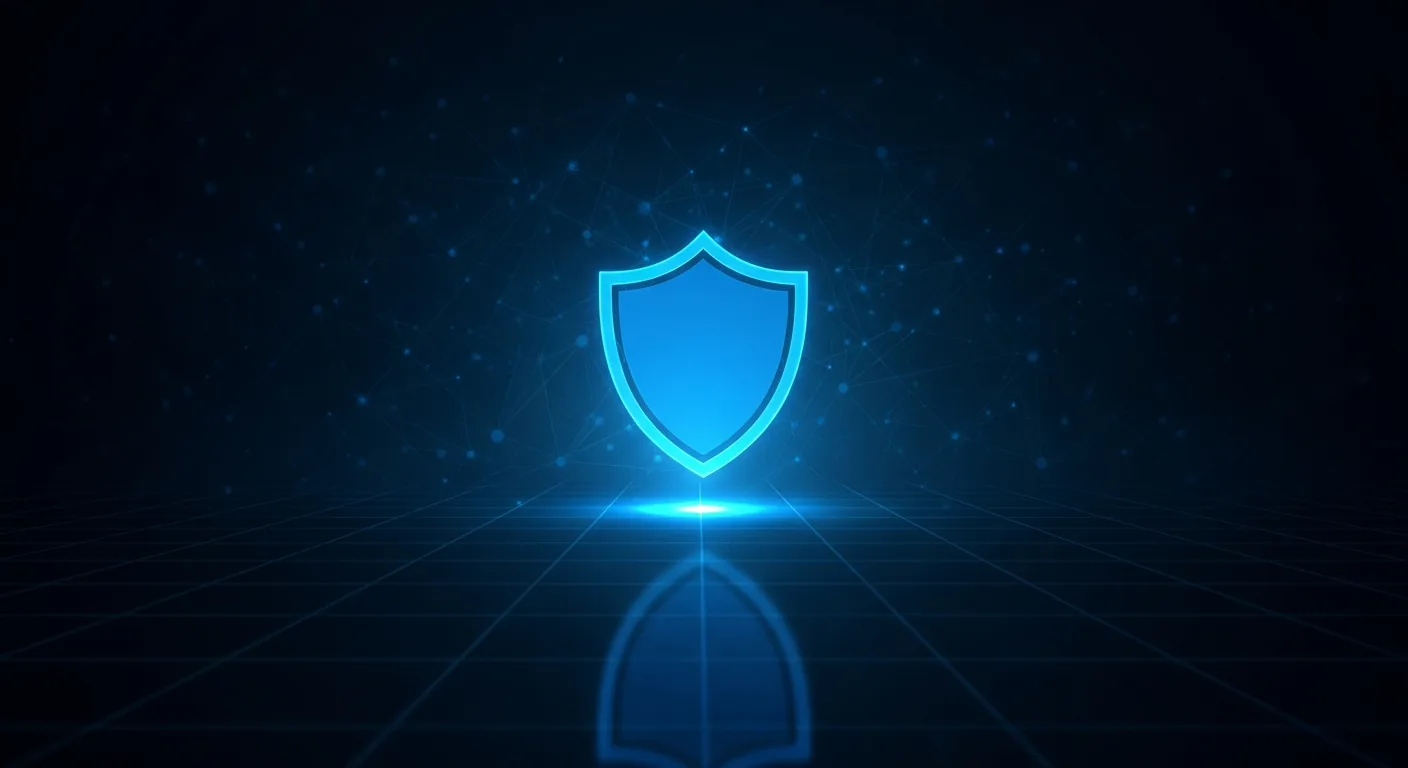
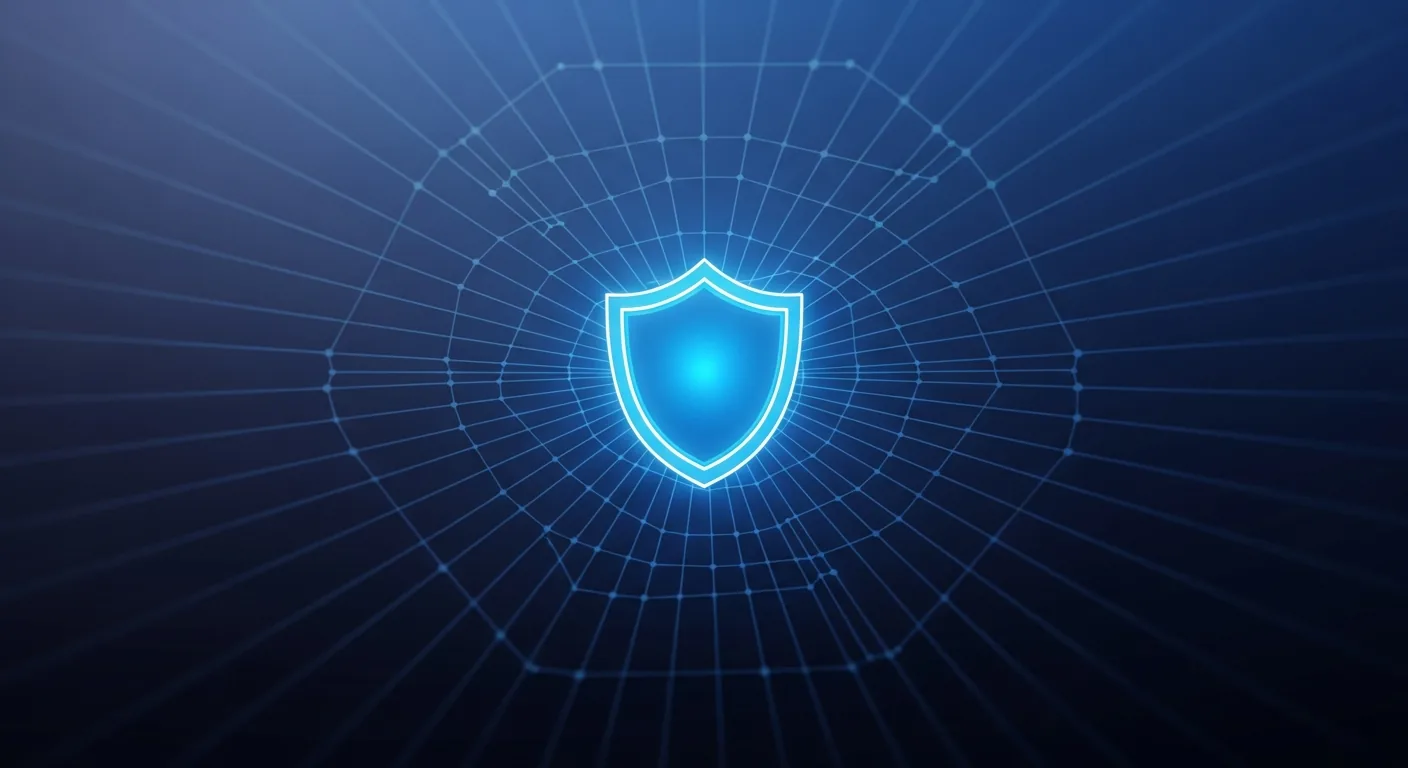
Complete AI image library — 38 new images for guides, countries, and OG
Generated via kie.ai Imagen4 Fast and converted to WebP:
- 12 thematic guide images (covers all 75 guides via slug→topic mapping)
- 20 country hero images (top countries by traffic potential)
- 6 social/OG share backgrounds (security, vpn, countries, default, travel, guides)

Code changes:
- ArticleLayout: re-enable full topic-image map (15 patterns)
- CountryBestVpnLayout: add hero image at top of page for the 20 countries
- .gitignore: exclude raw .png sources, only ship .webp to git

Total image weight: 4.7 MB across 49 WebP files (was 68.5 MB as PNG).

diff --git a/src/components/layouts/ArticleLayout.tsx b/src/components/layouts/ArticleLayout.tsx
@@ -23,17 +23,22 @@ const heroImageByCategory: Record<string, { src: string; alt: string }> = {
 
 // Topic-cluster image mapping — keyword fragments matched against slug+title
 // Returns the most specific match. Order matters (most specific first).
-// Only includes images that actually exist on disk.
 const TOPIC_IMAGES: Array<[RegExp, string, string]> = [
+  [/crypto/, "/images/illustrations/guide-crypto.webp", "Cryptocurrency security and hardware wallets"],
+  [/gaming|gamer/, "/images/illustrations/guide-gaming.webp", "VPN for gaming setup"],
+  [/coworking|co-working/, "/images/illustrations/guide-coworking.webp", "Coworking and shared office security"],
+  [/api[- ]?key|developer|cloud-development|endpoint|byod|note-taking/, "/images/illustrations/guide-developer.webp", "Developer security and API keys"],
   [/messaging|video[- ]?call|screen[- ]?sharing|collaboration|remote[- ]?desktop|email/, "/images/illustrations/guide-comms.webp", "Secure video calls and messaging"],
   [/browser|privacy|social-media|browsing|minimalism|estate|job-search|laws/, "/images/illustrations/guide-privacy.webp", "Browser privacy and online tracking"],
-  [/backup|cloud-storage|breach|file-sharing|encryption|api[- ]?key|developer/, "/images/illustrations/guide-data.webp", "Cloud data and backup security"],
+  [/backup|cloud-storage|breach|file-sharing|encryption/, "/images/illustrations/guide-data.webp", "Cloud data and backup security"],
   [/wifi|router|home-network|dns|iot/, "/images/illustrations/guide-router.webp", "Home network router security"],
   [/password|2fa|two-factor|sim-swap|auth/, "/images/illustrations/guide-passwords.webp", "Password manager and 2FA"],
+  [/finance|accountant|lawyer|healthcare|teacher|real-estate|senior|small-business|freelance|expat|journalist|student/, "/images/illustrations/guide-professional.webp", "Professional VPN for finance and business"],
+  [/multi-device|tablet|chromebook|nas|android|ios|mac|windows|linux/, "/images/illustrations/guide-multi-device.webp", "Multi-device VPN security"],
+  [/zero[- ]?trust|enterprise/, "/images/illustrations/guide-enterprise.webp", "Enterprise VPN and zero trust"],
   [/digital[- ]?nomad|nomad/, "/images/illustrations/guide-digital-nomad.webp", "Digital nomad working remotely"],
   [/hotel|airport|travel/, "/images/illustrations/guide-hotel-wifi.webp", "Working from hotel with VPN"],
   [/setup|beginner|mobile/, "/images/illustrations/guide-mobile-vpn.webp", "VPN connected on smartphone"],
-  [/security[- ]?tools|tools/, "/images/illustrations/guide-security-tools.webp", "Security tools flatlay"],
 ];
 
 function pickHero(slug: string | undefined, category: string, title: string): { src: string; alt: string } {

diff --git a/src/components/layouts/CountryBestVpnLayout.tsx b/src/components/layouts/CountryBestVpnLayout.tsx
@@ -11,6 +11,14 @@ import CountryPageTracker from "@/components/ui/CountryPageTracker";
 import NearbyCountries from "@/components/ui/NearbyCountries";
 import { getAllCountries } from "@/lib/data";
 
+// Slugs that have a generated hero image in /public/images/countries/
+const COUNTRIES_WITH_HERO = new Set([
+  "united-states", "united-kingdom", "germany", "france", "japan",
+  "australia", "canada", "brazil", "india", "mexico", "spain", "italy",
+  "netherlands", "sweden", "singapore", "south-korea", "switzerland",
+  "poland", "turkey", "argentina",
+]);
+
 interface CountryBestVpnLayoutProps {
   country: Country;
   providers: {
@@ -76,6 +84,19 @@ export default function CountryBestVpnLayout({
           { label: country.nameEn },
         ]}
       />
+
+      {/* Country hero image (only if we have one generated) */}
+      {COUNTRIES_WITH_HERO.has(country.slug) && (
+        <div className="mb-8 -mx-4 sm:-mx-6 lg:-mx-8 sm:rounded-2xl overflow-hidden shadow-2xl ring-1 ring-black/5">
+          {/* eslint-disable-next-line @next/next/no-img-element */}
+          <img
+            src={`/images/countries/${country.slug}.webp`}
+            alt={`${country.nameEn} — VPN guide hero image`}
+            className="w-full h-auto object-cover aspect-[16/9]"
+            loading="eager"
+          />
+        </div>
+      )}
 
       {/* Section 1: Above-the-fold summary */}
       <header className="mb-8">
